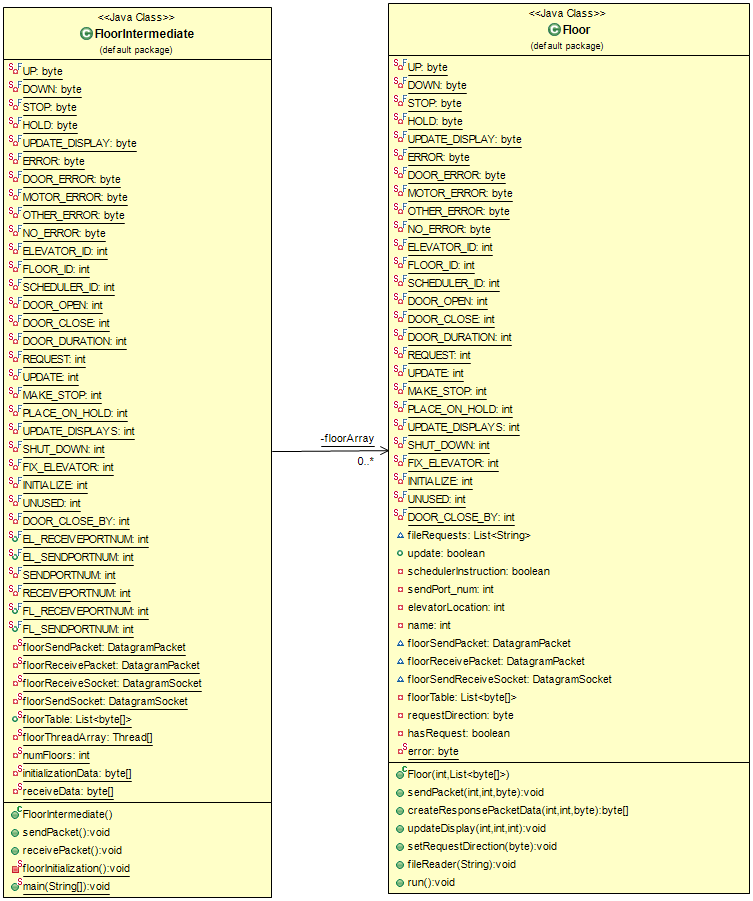
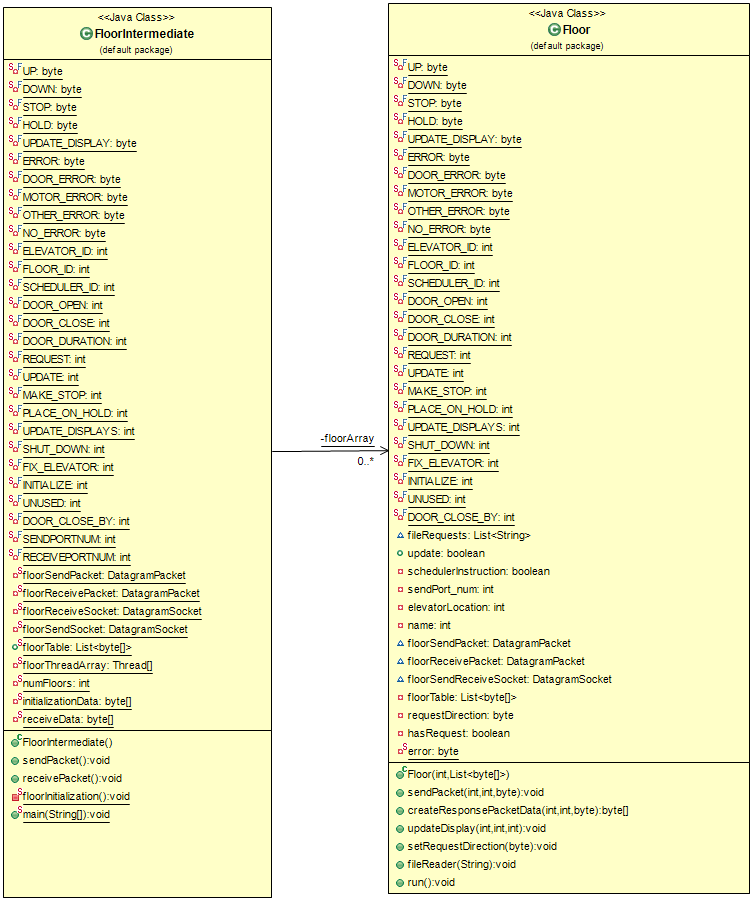
JavaDoc for FloorIntermediate

Changed region(s): [[0.0, 0.5905, 0.2749, 0.9945]]

diff --git a/SYSC3303 Project/src/FloorIntermediate.java b/SYSC3303 Project/src/FloorIntermediate.java
@@ -9,23 +9,14 @@ import java.util.ArrayList;
 import java.util.Arrays;
 import java.util.Collections;
 import java.util.List;
-
+/**
+ * Intermediate/Communication member of the floor Subsystem.
+ * Will send UDP packets created by floors to the scheduler.
+ * The instructions provided by the scheduler will go be provided to the floors by this Class.
+ * @author Group 5
+ */
 public class FloorIntermediate {
 
-	/*
-	// UNIFIED CONSTANTS DECLARATION FOR ALL CLASSES
-	private static final byte HOLD = 0x00;// elevator is in hold state
-	private static final byte UP = 0x01;// elevator is going up
-	private static final byte DOWN = 0x02;// elevator is going down
-	private static final int ELEVATOR_ID = 21;// for identifying the packet's source as elevator
-	private static final int FLOOR_ID = 69;// for identifying the packet's source as floor
-	private static final int SCHEDULER_ID = 54;// for identifying the packet's source as scheduler
-	private static final int DOOR_OPEN = 1;// the door is open when ==1
-	private static final int DOOR_DURATION = 4;// duration that doors stay open for
-	private static final int REQUEST = 1;// for identifying the packet sent to scheduler as a request
-	private static final int UPDATE = 2;// for identifying the packet sent to scheduler as a status update
-	//*/
-	
 	//UNIFIED CONSTANTS DECLARATION FOR ALL CLASSES
 	//States
 	private static final byte UP = 0x01;// elevator is going up
@@ -59,32 +50,17 @@ public class FloorIntermediate {
 	private static final int UNUSED=0;// value for unused parts of data 
 	private static final int DOOR_CLOSE_BY=6;//door shouldn't be open for longer than 6 seconds
 
-	public static final int EL_RECEIVEPORTNUM = 369;
-	public static final int EL_SENDPORTNUM = 159;
-
-	/*//FROM ELEVATORINTERMEDIATE
-	private static final int SENDPORTNUM = 369;
-	private static final int RECEIVEPORTNUM = 159;
-	 */
-
-	private static final int SENDPORTNUM = 369;
+	private static final int SENDPORTNUM = 369;// port number for sending to the scheduler
 	private static final int RECEIVEPORTNUM = 1199;
-
-	public static final int FL_RECEIVEPORTNUM = 488;
-	public static final int FL_SENDPORTNUM = 1199;
 
 	private static DatagramPacket floorSendPacket, floorReceivePacket;
 	private static DatagramSocket floorReceiveSocket,floorSendSocket;
-
-	public static List<byte[]> floorTable = Collections.synchronizedList(new ArrayList<byte[]>());
+	
+	public static List<byte[]> floorTable = Collections.synchronizedList(new ArrayList<byte[]>());// Syncronized table that the Floor threads will put created packets in to be sent. 
 	private static Floor floorArray[];
 	private static Thread floorThreadArray[];
 
 	// arrays to keep track of the number of elevators, eliminates naming confusion
-//	private static int name;
-//	private static boolean hasRequest;
-//	private static int up_or_down;
-	//private boolean intialized=false;
 	private static int numFloors;
 	private static byte initializationData[];
 	private static byte receiveData[]=new byte[8];
@@ -92,8 +68,9 @@ public class FloorIntermediate {
 	 * send sockets should be allocated dynamically since the ports would be
 	 * variable to the elevator or floor we have chosen
 	 */
-	//public static final int SENDPORTNUM = 488;
-
+	/**
+	 * Constructor Of FloorIntermediate
+	 */
 	public FloorIntermediate() {
 		try {
 			floorSendSocket = new DatagramSocket();//FL_RECEIVEPORTNUM);
@@ -103,7 +80,9 @@ public class FloorIntermediate {
 		}
 	}
 
-
+	/**
+	 * Sends a packet of Information through the synchronized Table for the Floor threads
+	 */
 	public synchronized void sendPacket() {
 		// byte[] requestElevator = new byte[7];
 
@@ -158,8 +137,11 @@ public class FloorIntermediate {
 		}
 
 	}
-
-	public synchronized void receivePacket() {
+	
+	/**
+	 * method for Receiving Datagram Packets from the scheduler
+	 */
+	public void receivePacket() {
 		//byte data[] = new byte[8];
 		int elevatorElement;
 		int elevatorDirection;//which direction the elevator is going or holding (data[__])
@@ -218,7 +200,9 @@ public class FloorIntermediate {
 			System.out.println("Floor: "+ elevatorLocation+" error in receivePacket(), not an UPDATE but: "+schedulerInstruction);
 		}
 	}
-
+	/**
+	 * FloorIntermediate class is initialized with the scheduler using this method
+	 */
 	private static void floorInitialization() {
 		ByteArrayOutputStream initializationOutputStream = new ByteArrayOutputStream();
 		initializationOutputStream.write(FLOOR_ID); // Identifying as the scheduler
@@ -233,7 +217,9 @@ public class FloorIntermediate {
 		floorTable.add(initializationData);
 
 	}
-
+	/**
+	 * Main execution code of the Floor Subsystem
+	 */
 	public static void main(String args[]) {// throws IOException {
 
 		//FOR ITERATION 5, hard coding number of elevators, floors, requests, errors

diff --git a/SYSC3303 Project/src/ElevatorIntermediate.java b/SYSC3303 Project/src/ElevatorIntermediate.java
@@ -14,8 +14,7 @@ import java.lang.Object;
 /**
  * Intermediate/Communication member of the elevator Subsystem.
  * Will send UDP packets created by elevators to the scheduler.
- * The instructions provided by the scheduler will go be provided to the elevators by this Class.
- * Has Arguments to pass on the number of elevators to be implemented in the system and what floors their initial request will go to. 
+ * The instructions provided by the scheduler will go be provided to the elevators by this Class. 
  * @author Group 5
  */
 public class ElevatorIntermediate {
